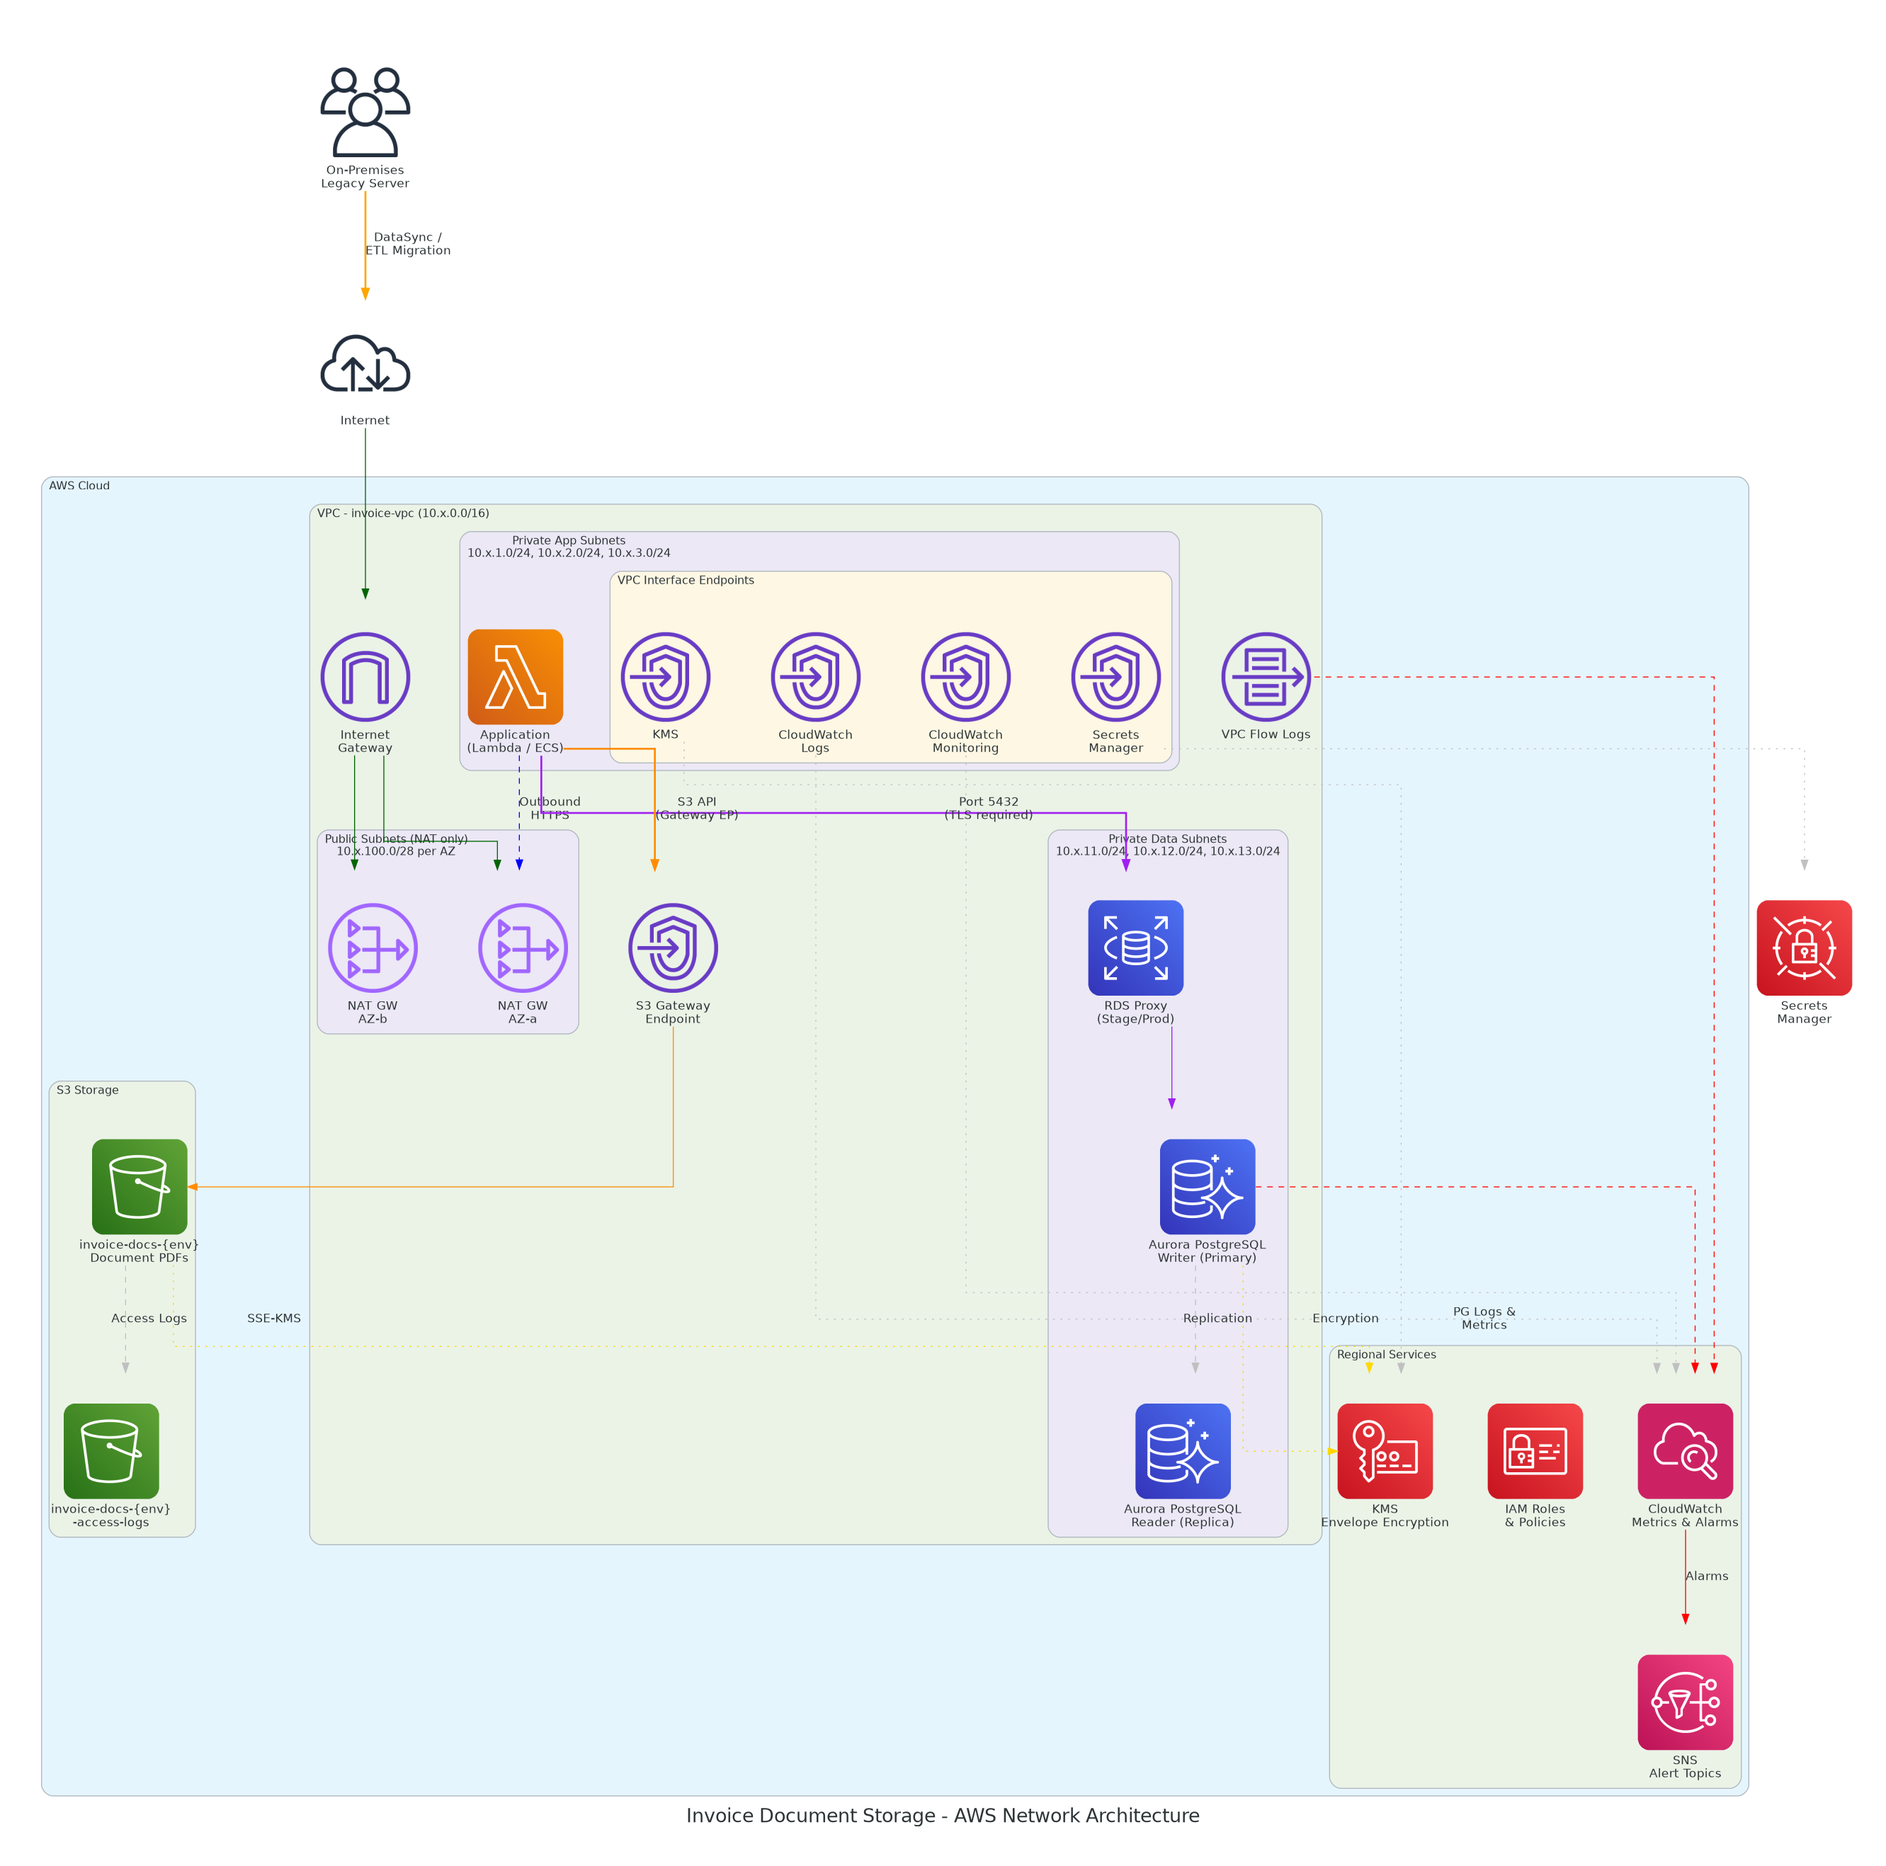
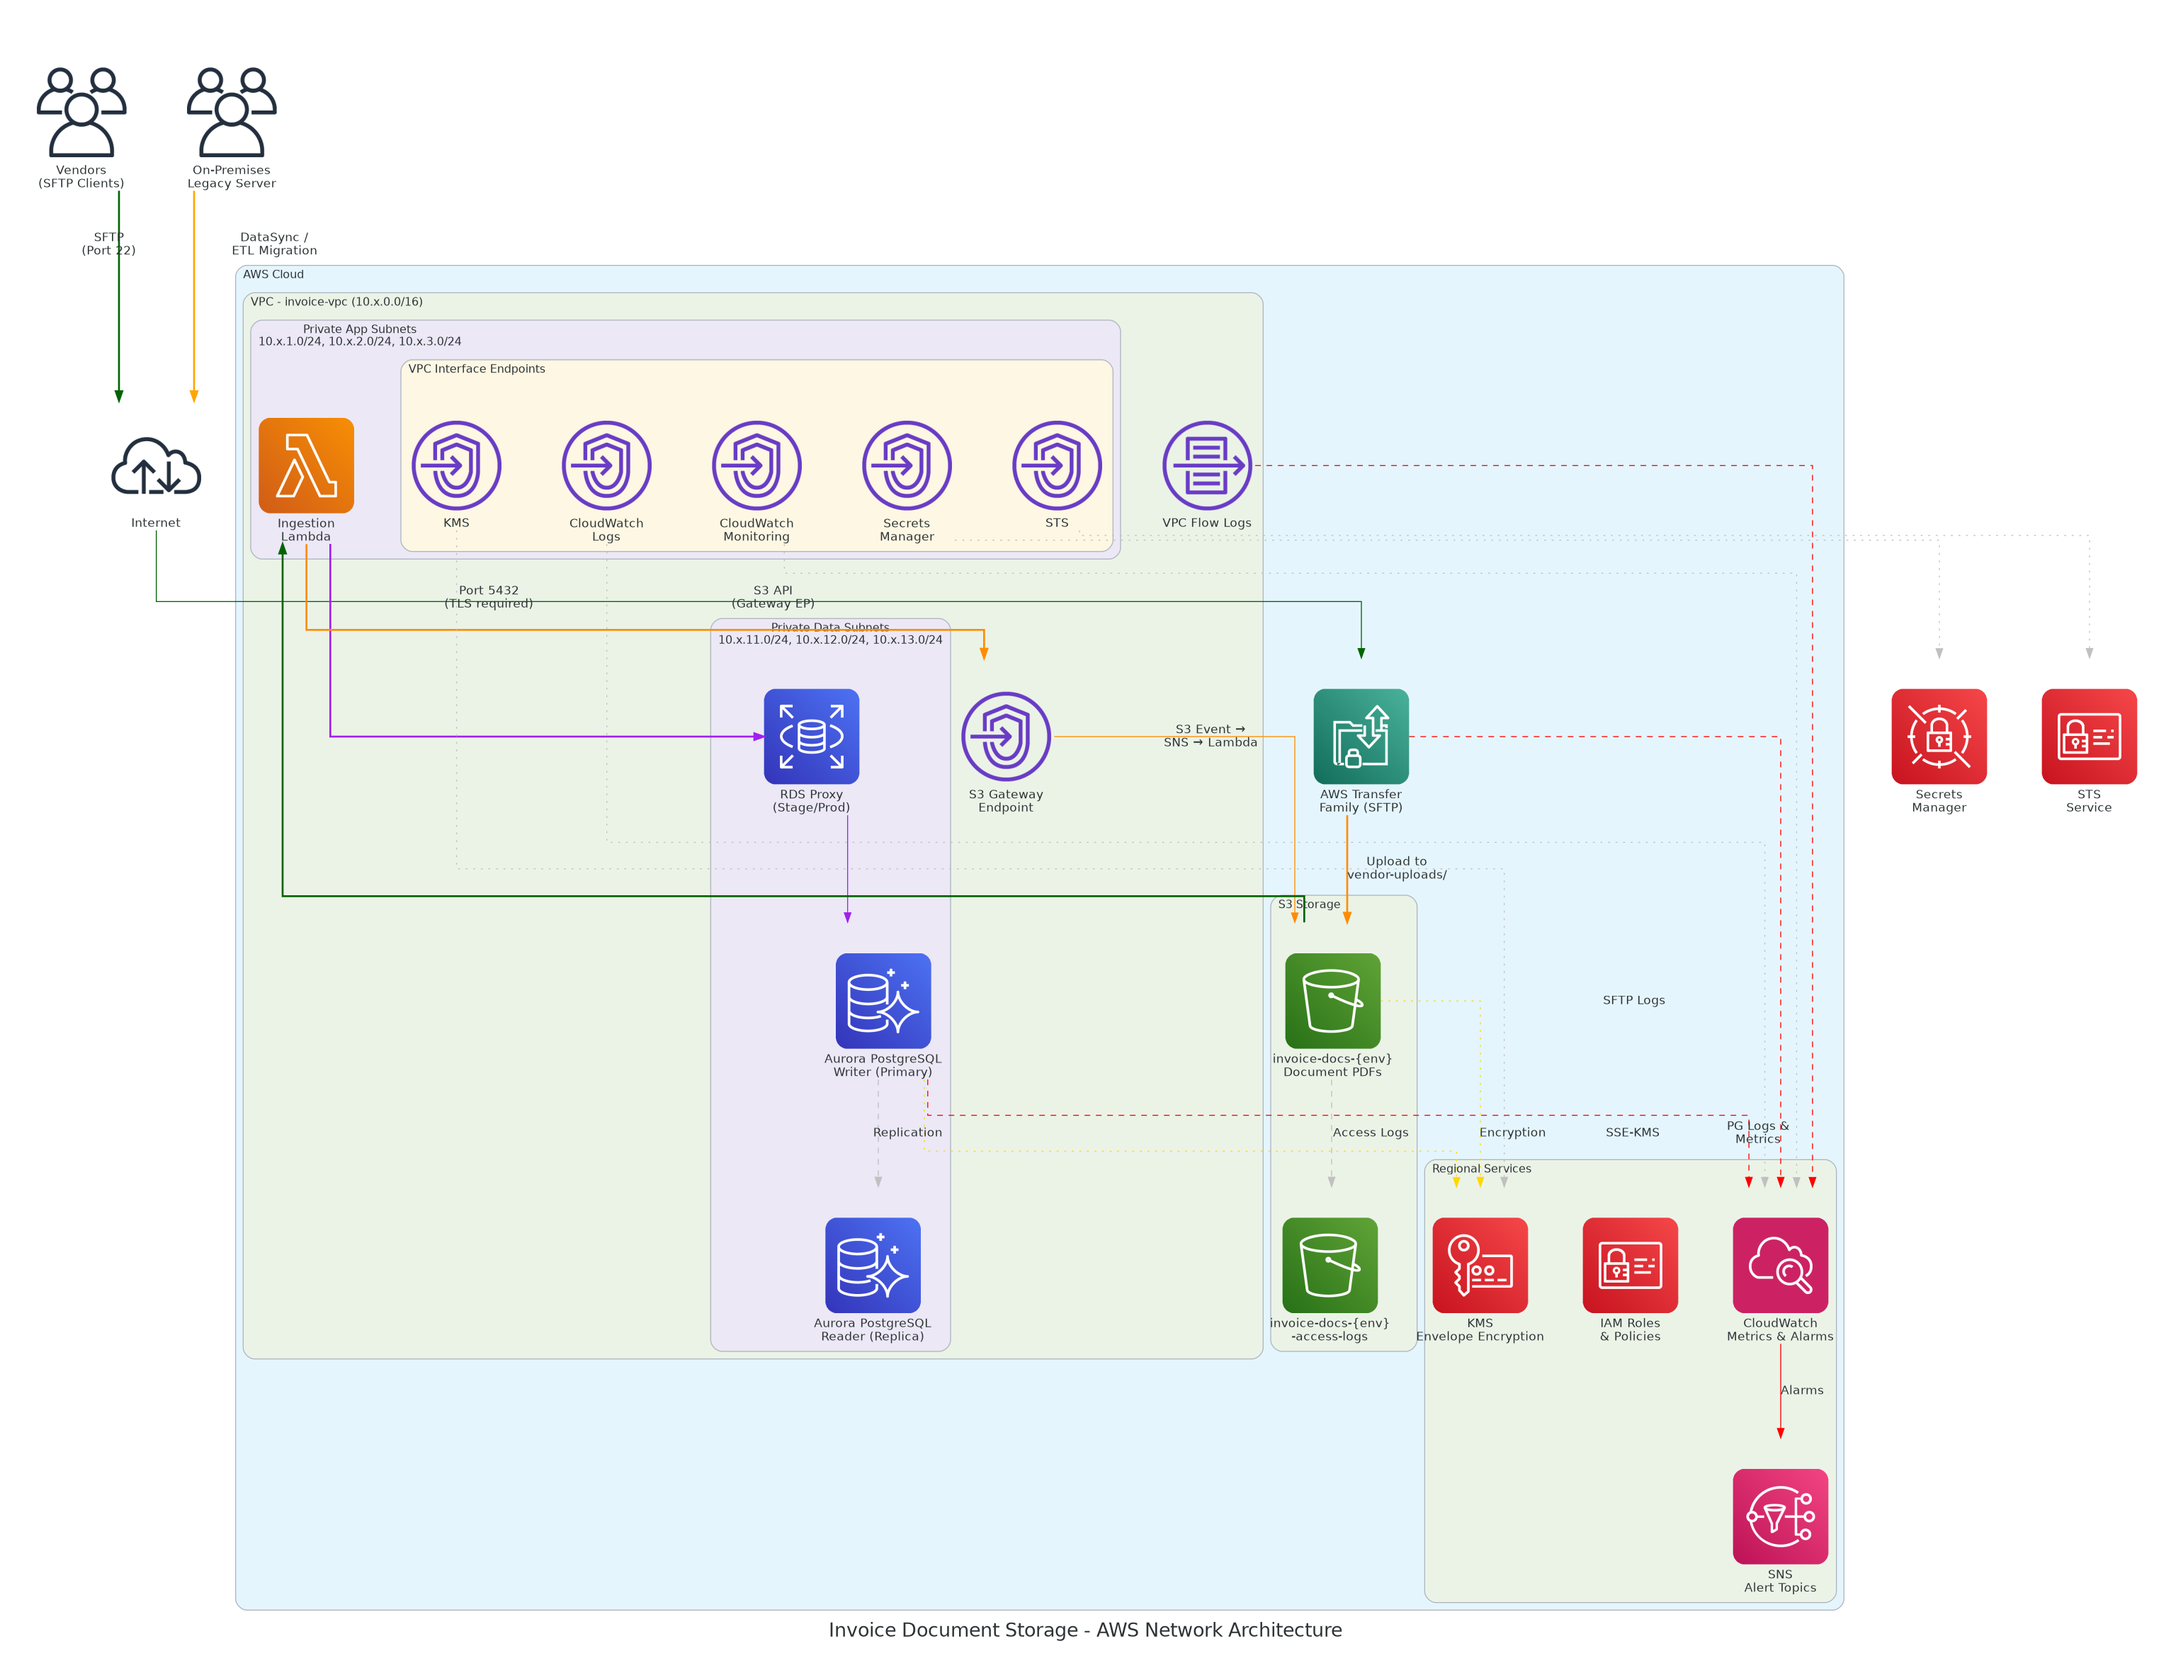
Update architecture diagram: remove NAT/IGW, add SFTP and STS endpoint
Reflects infrastructure changes: no NAT Gateway/IGW, Lambda-only compute,
Transfer Family SFTP for vendor ingestion, STS VPC endpoint added.

https://claude.ai/code/session_01VhPLo2vE3QAgEYVr2xwvqs

diff --git a/docs/diagrams/network_architecture.py b/docs/diagrams/network_architecture.py
@@ -5,8 +5,7 @@ Generates a PNG diagram using official AWS icons via the 'diagrams' library.
 
 from diagrams import Diagram, Cluster, Edge
 from diagrams.aws.network import (
-    VPC, PrivateSubnet, PublicSubnet, NATGateway,
-    InternetGateway, VPCFlowLogs, Endpoint
+    VPC, PrivateSubnet, VPCFlowLogs, Endpoint
 )
 from diagrams.aws.database import Aurora, RDS
 from diagrams.aws.storage import S3
@@ -14,6 +13,7 @@ from diagrams.aws.security import KMS, IAM, SecretsManager
 from diagrams.aws.management import Cloudwatch
 from diagrams.aws.integration import SNS
 from diagrams.aws.compute import Lambda
+from diagrams.aws.migration import TransferForSftp
 from diagrams.aws.general import Users
 from diagrams.onprem.network import Internet
 
@@ -34,6 +34,7 @@ with Diagram(
     outformat="png",
 ):
     # External
+    vendors = Users("Vendors\n(SFTP Clients)")
     on_prem = Users("On-Premises\nLegacy Server")
     internet = Internet("Internet")
 
@@ -46,27 +47,23 @@ with Diagram(
             sns = SNS("SNS\nAlert Topics")
             cw = Cloudwatch("CloudWatch\nMetrics & Alarms")
 
+        # Transfer Family SFTP (public endpoint, outside VPC)
+        sftp = TransferForSftp("AWS Transfer\nFamily (SFTP)")
+
         with Cluster("VPC - invoice-vpc (10.x.0.0/16)"):
 
             flow_logs = VPCFlowLogs("VPC Flow Logs")
 
-            # Internet Gateway
-            igw = InternetGateway("Internet\nGateway")
-
-            # Public NAT Subnets
-            with Cluster("Public Subnets (NAT only)\n10.x.100.0/28 per AZ"):
-                nat_a = NATGateway("NAT GW\nAZ-a")
-                nat_b = NATGateway("NAT GW\nAZ-b")
-
             # App Subnets
             with Cluster("Private App Subnets\n10.x.1.0/24, 10.x.2.0/24, 10.x.3.0/24"):
-                app_lambda = Lambda("Application\n(Lambda / ECS)")
+                app_lambda = Lambda("Ingestion\nLambda")
 
                 with Cluster("VPC Interface Endpoints"):
                     ep_sm = Endpoint("Secrets\nManager")
                     ep_kms = Endpoint("KMS")
                     ep_cw = Endpoint("CloudWatch\nLogs")
                     ep_mon = Endpoint("CloudWatch\nMonitoring")
+                    ep_sts = Endpoint("STS")
 
             # Data Subnets
             with Cluster("Private Data Subnets\n10.x.11.0/24, 10.x.12.0/24, 10.x.13.0/24"):
@@ -84,16 +81,16 @@ with Diagram(
 
     # --- Connections ---
 
-    # External connectivity
+    # Vendor SFTP flow
+    vendors >> Edge(label="SFTP\n(Port 22)", color="darkgreen", style="bold") >> internet
+    internet >> Edge(color="darkgreen") >> sftp
+    sftp >> Edge(label="Upload to\nvendor-uploads/", color="darkorange", style="bold") >> s3_docs
+
+    # On-premises migration
     on_prem >> Edge(label="DataSync /\nETL Migration", color="orange", style="bold") >> internet
-    internet >> Edge(color="darkgreen") >> igw
 
-    # NAT Gateway flow
-    igw >> Edge(color="darkgreen") >> nat_a
-    igw >> Edge(color="darkgreen") >> nat_b
-
-    # App to NAT (outbound internet)
-    app_lambda >> Edge(label="Outbound\nHTTPS", color="blue", style="dashed") >> nat_a
+    # S3 event triggers Lambda
+    s3_docs >> Edge(label="S3 Event →\nSNS → Lambda", color="darkgreen", style="bold") >> app_lambda
 
     # App to Aurora via RDS Proxy
     app_lambda >> Edge(label="Port 5432\n(TLS required)", color="purple", style="bold") >> rds_proxy
@@ -110,11 +107,13 @@ with Diagram(
     ep_kms >> Edge(color="gray", style="dotted") >> kms
     ep_cw >> Edge(color="gray", style="dotted") >> cw
     ep_mon >> Edge(color="gray", style="dotted") >> cw
+    ep_sts >> Edge(color="gray", style="dotted") >> IAM("STS\nService")
 
     # Monitoring
     flow_logs >> Edge(color="red", style="dashed") >> cw
     aurora_primary >> Edge(label="PG Logs &\nMetrics", color="red", style="dashed") >> cw
     cw >> Edge(label="Alarms", color="red") >> sns
+    sftp >> Edge(label="SFTP Logs", color="red", style="dashed") >> cw
 
     # Encryption
     aurora_primary >> Edge(color="gold", style="dotted", label="Encryption") >> kms
